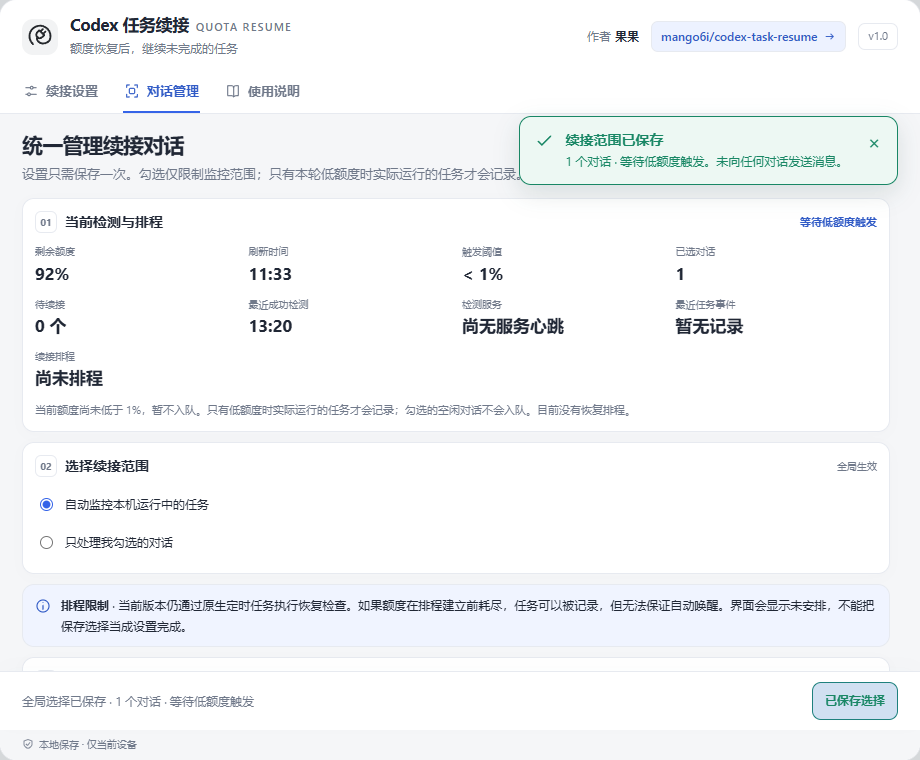
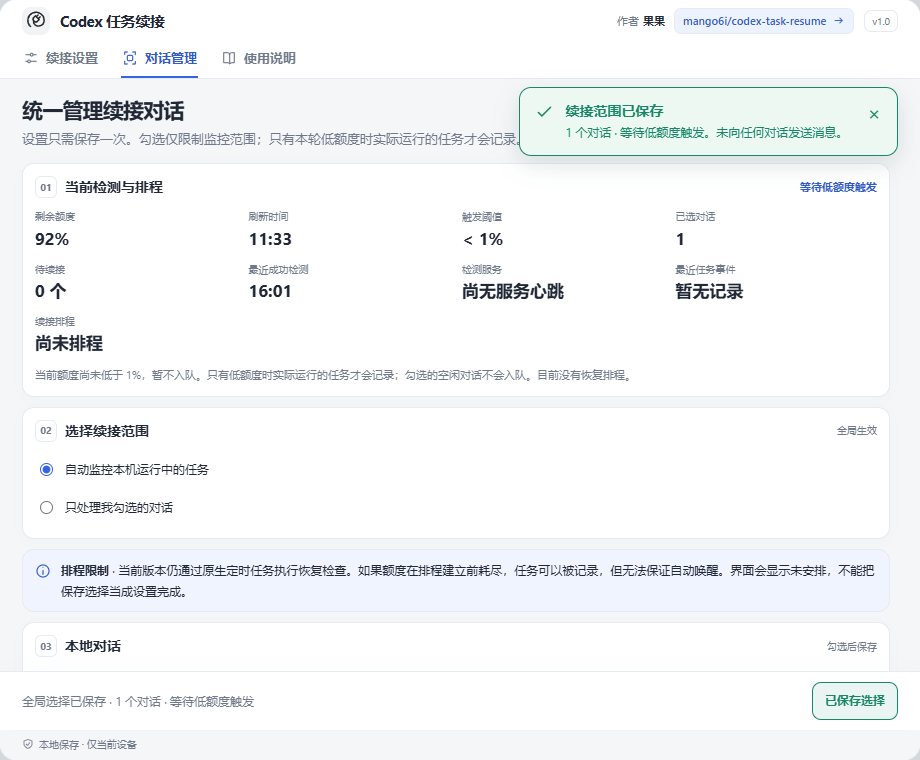
Compact plugin header and refresh settings resource identifiers

diff --git a/ui/settings.html b/ui/settings.html
@@ -52,6 +52,33 @@ html,body{height:100%;overflow:hidden}
 @media(min-width:1100px){#fields{grid-template-columns:repeat(3,minmax(0,1fr));gap:14px}#fields>.card:first-child{grid-column:auto}#fields .two{grid-template-columns:minmax(0,1fr);gap:14px}#fields .field{display:grid;grid-template-columns:minmax(0,1fr) 128px;column-gap:12px;align-items:center}#fields .field label{margin:0}#fields .field>.hint,#fields .field>.preset-row{grid-column:1/-1}#fields textarea{height:150px}}
 @media(prefers-reduced-motion:reduce){*{animation:none!important;transition:none!important}}
 .quota-strip{display:flex;align-items:center;gap:6px 22px;flex-wrap:wrap;padding:8px 12px;background:var(--surface);border:1px solid var(--border);border-radius:10px;margin-bottom:10px}.quota-strip small{display:block;color:var(--muted);font-size:10px}.quota-strip strong{font-size:15px;font-variant-numeric:tabular-nums}.quota-strip .button{margin-left:auto}.quota-strip p{flex-basis:100%;font-size:11px;color:var(--muted);line-height:1.5}.task-bulk{display:flex;gap:14px;align-items:center;flex-wrap:wrap;margin-top:10px}.task-bulk small{font-size:10px;color:var(--muted)}html[lang=en] .brand span{display:none}html[lang=en] .section-head{flex-wrap:wrap}html[lang=en] .project-meta{min-width:0}@media(max-width:480px){.quota-strip{gap:12px}.project-meta{max-width:100%}.project-link{font-size:10px;overflow-wrap:anywhere;min-width:0}.project-link .ico{display:none}.task-bulk small{flex-basis:100%}.quota-strip .button{font-size:10px}}
+
+/* Compact the plugin header; the native host owns its outer page title. */
+.app-header{flex-shrink:0;background:var(--surface);border-bottom:1px solid var(--border)}
+.app-header .brandbar{padding-top:7px;padding-bottom:5px;gap:10px}
+.app-header .brandmark{width:28px;height:28px;border-radius:8px;flex-shrink:0}
+.app-header .brand{font-size:15px;line-height:1.4;white-space:nowrap}
+.app-header .brand span,.app-header .brand-sub{display:none}
+.app-header .tabs{border-bottom:0;gap:22px}
+.app-header .tab{padding-top:7px;padding-bottom:8px}
+.app-header .project-meta{font-size:11px;gap:9px}
+.app-header .project-link{padding:3px 8px;font-size:11px}
+.app-header .version{padding:2px 7px;font-size:10px}
+.shell .save-feedback{top:calc(var(--header-height,88px) + 8px)}
+@media(min-width:1000px){
+ .app-header{display:flex;align-items:center;gap:10px;padding:4px max(22px,calc((100% - 1320px)/2))}
+ .app-header .brandbar{display:contents}
+ .app-header .tabs{order:1;margin-left:12px;padding:0;flex-shrink:0;gap:22px}
+ .app-header .project-meta{order:2;margin-left:auto}
+ .app-header .version{order:3;margin-left:0}
+ .app-header .tab{padding:9px 1px;font-size:12px}
+}
+@media(max-width:560px){
+ .app-header .brandbar{flex-wrap:wrap;gap:5px 9px}
+ .app-header .project-meta{order:4;flex-basis:100%;margin:0;flex-direction:row;align-items:center;justify-content:space-between;border-top:1px solid var(--border);padding-top:5px}
+ .app-header .version{margin-left:auto}
+}
+
 .brandmark{background:transparent;box-shadow:none;overflow:hidden}.brandmark img{display:block;width:100%;height:100%;object-fit:contain;border-radius:9px}.steps{align-items:start}</style>
 </head>
 <body>
@@ -70,12 +97,13 @@ html,body{height:100%;overflow:hidden}
 <symbol id="spinner" viewBox="0 0 24 24"><path d="M21 12a9 9 0 1 1-9-9"/></symbol>
 </defs></svg>
 <main class="shell" id="shell">
-<header class="brandbar">
+<header class="app-header" id="app-header">
+<div class="brandbar">
  <div class="brandmark" aria-hidden="true"><img src="__TASK_RESUME_ICON__" alt="" aria-hidden="true"></div>
  <div><div class="brand">Codex 任务续接<span>QUOTA RESUME</span></div><div class="brand-sub">额度恢复后，继续未完成的任务</div></div>
  <div class="project-meta"><span class="project-author">作者<b>果果</b></span><a class="project-link" id="project-home" href="https://github.com/mango6i/codex-task-resume" target="_blank" rel="noopener noreferrer" aria-label="打开项目主页 mango6i/codex-task-resume">mango6i/codex-task-resume<svg class="ico" aria-hidden="true"><use href="#arrow"/></svg></a></div>
  <span class="version">v1.0</span>
-</header>
+</div>
 <style>
 .scope-option{display:flex;align-items:flex-start;gap:9px;padding:9px 0;font-size:12px;cursor:pointer}.scope-option input{accent-color:var(--accent);margin-top:3px}.task-toolbar{display:flex;align-items:center;justify-content:space-between;gap:12px;margin-top:16px}.task-toolbar input[type=search]{min-width:0;flex:1;border:1px solid var(--border);border-radius:9px;padding:10px;background:var(--bg);color:inherit;font:inherit}.task-list{margin-top:15px;border:1px solid var(--border);border-radius:12px;overflow:hidden}.task-row{display:flex;align-items:center;gap:12px;padding:15px;cursor:pointer}.task-row+.task-row{border-top:1px solid var(--border)}.task-row>input{accent-color:var(--accent);width:16px;height:16px;flex-shrink:0}.task-row>div{min-width:0;flex:1}.task-row strong{font-size:13px;display:block;overflow-wrap:anywhere}.task-row small{display:block;color:var(--muted);font-size:10px;overflow-wrap:anywhere;margin-top:4px}.task-badge{font-size:10px;white-space:nowrap;color:var(--muted);background:var(--soft);padding:4px 7px;border-radius:6px}#task-monitor,#task-status{font-size:12px;line-height:1.85;color:var(--muted)}@media(max-width:480px){.task-toolbar{flex-wrap:wrap}.task-row{flex-wrap:wrap}.task-badge{margin-left:28px}.task-toolbar input[type=search]{flex-basis:100%}}
 </style>
@@ -84,6 +112,7 @@ html,body{height:100%;overflow:hidden}
  <button type="button" class="tab" id="tab-tasks" role="tab" aria-selected="false" aria-controls="panel-tasks" tabindex="-1"><svg class="ico" aria-hidden="true"><use href="#capture"/></svg>对话管理</button>
  <button type="button" class="tab" id="tab-help" role="tab" aria-selected="false" aria-controls="panel-help" tabindex="-1"><svg class="ico" aria-hidden="true"><use href="#book"/></svg>使用说明</button>
 </nav>
+</header>
 <div id="panel-settings" role="tabpanel" aria-labelledby="tab-settings">
  <div class="page">
   <div class="intro"><div><div class="eyebrow">YOUR CONTINUATION RULE</div><h1>设置你的续接方式</h1><p>额度恢复后，按你保存的提示词接着处理未完成任务。</p></div><span class="saved-pill" id="saved-pill"><span class="dot"></span><span id="save-state">正在读取</span></span></div>
@@ -325,6 +354,7 @@ async function connect(){
 el('retry').addEventListener('click',()=>initialized?load():connect());
 connect();
 new ResizeObserver(()=>notify('ui/notifications/size-changed',{height:Math.ceil(el('shell').getBoundingClientRect().height)})).observe(el('shell'));
+new ResizeObserver(()=>el('shell').style.setProperty('--header-height',el('app-header').getBoundingClientRect().height+'px')).observe(el('app-header'));
 })();
 </script>
 </body></html>

diff --git a/ui/launcher.html b/ui/launcher.html
@@ -16,7 +16,7 @@ document.getElementById('open').addEventListener('click',async()=>{
  const button=document.getElementById('open'),status=document.getElementById('status');status.dataset.error='false';
  if(typeof window.openai?.requestModal!=='function'){status.textContent=t('当前客户端未提供弹窗接口。请点击插件原生设置中的“管理 Codex 任务续接”，或固定应用入口“Codex 任务续接 · 管理”。');status.dataset.error='true';return;}
  button.disabled=true;
- try{await window.openai.requestModal({template:'ui://task-resume/settings-studio-20261016-bilingual.html',params:{}});status.textContent=t('已请求客户端打开设置弹窗。保存后可在面板内确认结果。');}
+ try{await window.openai.requestModal({template:'ui://task-resume/settings-studio-20261016-compact-header.html',params:{}});status.textContent=t('已请求客户端打开设置弹窗。保存后可在面板内确认结果。');}
  catch(error){status.textContent=t('弹窗未打开：')+(error?.message||t('客户端拒绝了请求。'));status.dataset.error='true';}
  finally{button.disabled=false;}
 });

diff --git a/server/settings_mcp.py b/server/settings_mcp.py
@@ -14,8 +14,8 @@ import monitor
 
 VERSION = '1.0.0'
 SETTINGS_CAP = {'readTool': 'settings.read', 'updateTool': 'settings.update'}
-EDITOR_URI = 'ui://task-resume/settings-studio-20261016-bilingual.html'
-LAUNCHER_URI = 'ui://task-resume/settings-launcher-studio-20261016-bilingual.html'
+EDITOR_URI = 'ui://task-resume/settings-studio-20261016-compact-header.html'
+LAUNCHER_URI = 'ui://task-resume/settings-launcher-studio-20261016-compact-header.html'
 UI_FILES = {EDITOR_URI: 'settings.html', LAUNCHER_URI: 'launcher.html'}
 PROPERTIES = {
     'threshold': {'type': 'number', 'title': '剩余额度低于（%）', 'minimum': 0.01, 'maximum': 99,
@@ -135,11 +135,12 @@ def dispatch_raw(method, params, path):
             raise ValueError('Resource not found')
         return {'contents': [{'uri': uri, 'mimeType': 'text/html;profile=mcp-app',
             'text': i18n.render(UI_FILES[uri]),
-            '_meta': {'ui': {'csp': {'connectDomains': [], 'resourceDomains': []}},
+            '_meta': {'ui': {'prefersBorder': uri != EDITOR_URI,
+                            'csp': {'connectDomains': [], 'resourceDomains': []}},
                       'openai/ui': {'availableDisplayModes': ['inline', 'fullscreen'],
                                     'preferredDisplayMode': 'inline'},
                       'openai/widgetDescription': 'Codex 任务续接的客户端内设置表单。',
-                      'openai/widgetPrefersBorder': True,
+                      'openai/widgetPrefersBorder': uri != EDITOR_URI,
                       'openai/widgetCSP': {'connect_domains': [], 'resource_domains': [],
                                            'redirect_domains': ['https://github.com']}}}]}
     if method == 'tools/call':
